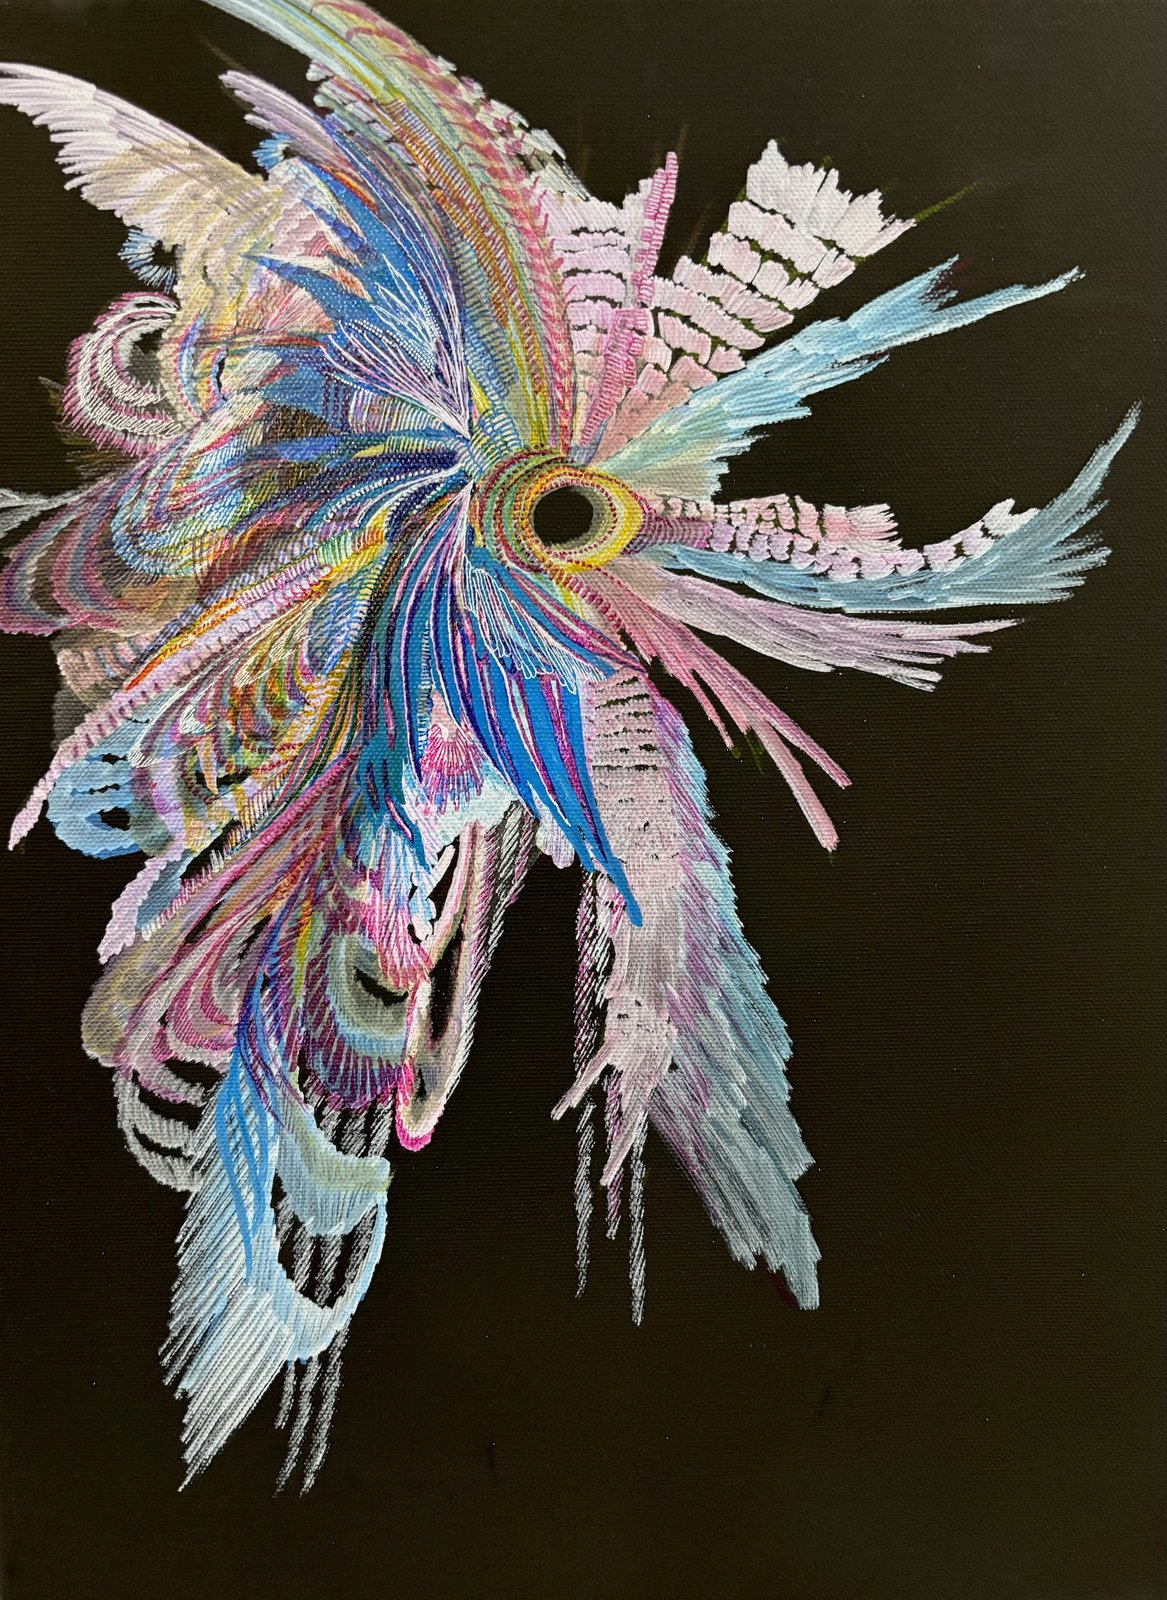
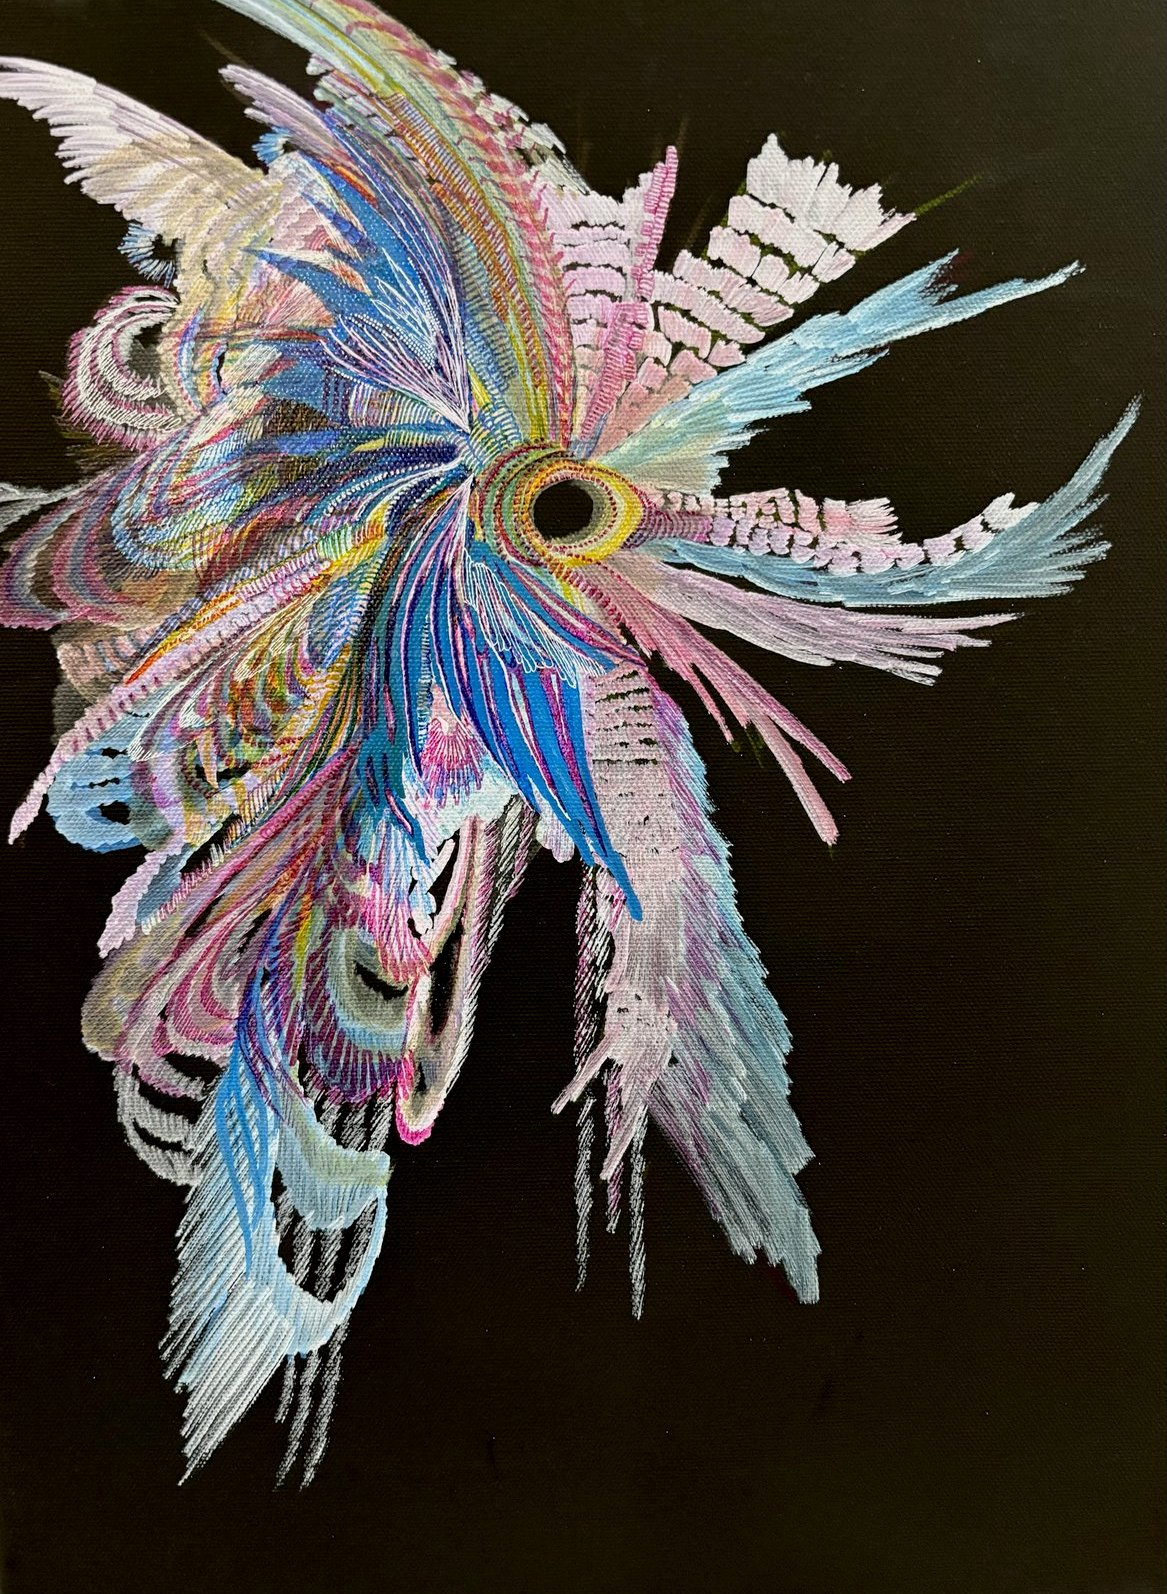
Deepen the black canvas on five 2026 photos; trim the white edge from 2026-24-1
Claude-Session: https://claude.ai/code/session_01SLgaSqkjdevHuyXdqpGcep

diff --git a/about.html b/about.html
@@ -5,7 +5,7 @@
 <meta name="viewport" content="width=device-width, initial-scale=1" />
 <title>About — Joel Pang</title>
 <meta name="description" content="Bio and artist statement for Joel Pang." />
-<link rel="stylesheet" href="style.css?v=5d3c864" />
+<link rel="stylesheet" href="style.css?v=fb7d0ab" />
 <link rel="icon" href="favicon.ico" sizes="16x16 32x32 48x48" />
 <link rel="icon" href="favicon-64.png" type="image/png" sizes="64x64" />
 <link rel="icon" href="icon-192.png" type="image/png" sizes="192x192" />
@@ -78,7 +78,7 @@
   </div>
 </footer>
 
-<script src="content.js?v=5d3c864"></script>
+<script src="content.js?v=fb7d0ab"></script>
 <script>
 (function () {
   const B = SITE.bio;
@@ -89,7 +89,7 @@
     .map((e) => `<li><strong>${e.school}</strong><span>${e.detail}</span>${e.date ? `<span class="edu-date">${e.date}</span>` : ""}</li>`).join("");
 })();
 </script>
-<script src="script.js?v=5d3c864"></script>
-<script src="pages.js?v=5d3c864"></script>
+<script src="script.js?v=fb7d0ab"></script>
+<script src="pages.js?v=fb7d0ab"></script>
 </body>
 </html>

diff --git a/accomplishments.html b/accomplishments.html
@@ -5,7 +5,7 @@
 <meta name="viewport" content="width=device-width, initial-scale=1" />
 <title>Accomplishments — Joel Pang</title>
 <meta name="description" content="Exhibitions, awards, press, and collections featuring the work of Joel Pang." />
-<link rel="stylesheet" href="style.css?v=5d3c864" />
+<link rel="stylesheet" href="style.css?v=fb7d0ab" />
 <link rel="icon" href="favicon.ico" sizes="16x16 32x32 48x48" />
 <link rel="icon" href="favicon-64.png" type="image/png" sizes="64x64" />
 <link rel="icon" href="icon-192.png" type="image/png" sizes="192x192" />
@@ -59,7 +59,7 @@
   </div>
 </footer>
 
-<script src="content.js?v=5d3c864"></script>
+<script src="content.js?v=fb7d0ab"></script>
 <script>
 (function () {
   // one ink timeline, newest year first; press and collections join it once they have real entries
@@ -84,7 +84,7 @@
     </li>`).join("");
 })();
 </script>
-<script src="script.js?v=5d3c864"></script>
-<script src="pages.js?v=5d3c864"></script>
+<script src="script.js?v=fb7d0ab"></script>
+<script src="pages.js?v=fb7d0ab"></script>
 </body>
 </html>

diff --git a/contact.html b/contact.html
@@ -5,7 +5,7 @@
 <meta name="viewport" content="width=device-width, initial-scale=1" />
 <title>Contact — Joel Pang</title>
 <meta name="description" content="Get in touch with Joel Pang about commissions, studio visits, or exhibitions." />
-<link rel="stylesheet" href="style.css?v=5d3c864" />
+<link rel="stylesheet" href="style.css?v=fb7d0ab" />
 <link rel="icon" href="favicon.ico" sizes="16x16 32x32 48x48" />
 <link rel="icon" href="favicon-64.png" type="image/png" sizes="64x64" />
 <link rel="icon" href="icon-192.png" type="image/png" sizes="192x192" />
@@ -65,7 +65,7 @@
   </div>
 </footer>
 
-<script src="content.js?v=5d3c864"></script>
+<script src="content.js?v=fb7d0ab"></script>
 <script>
 (function () {
   const emailLink = document.getElementById("email-link");
@@ -87,7 +87,7 @@
   }
 })();
 </script>
-<script src="script.js?v=5d3c864"></script>
-<script src="pages.js?v=5d3c864"></script>
+<script src="script.js?v=fb7d0ab"></script>
+<script src="pages.js?v=fb7d0ab"></script>
 </body>
 </html>

diff --git a/2019/index.html b/2019/index.html
@@ -5,7 +5,7 @@
 <meta name="viewport" content="width=device-width, initial-scale=1" />
 <title>2019 — Joel Pang</title>
 <meta name="description" content="Paintings and works on paper by Joel Pang from 2019." />
-<link rel="stylesheet" href="../style.css?v=5d3c864" />
+<link rel="stylesheet" href="../style.css?v=fb7d0ab" />
 <link rel="icon" href="../favicon.ico" sizes="16x16 32x32 48x48" />
 <link rel="icon" href="../favicon-64.png" type="image/png" sizes="64x64" />
 <link rel="icon" href="../icon-192.png" type="image/png" sizes="192x192" />
@@ -72,8 +72,8 @@
 </footer>
 
 <script>window.SITE_ROOT = "../";</script>
-<script src="../images/grid/sizes.js?v=5d3c864"></script>
-<script src="../content.js?v=5d3c864"></script>
-<script src="../script.js?v=5d3c864"></script>
+<script src="../images/grid/sizes.js?v=fb7d0ab"></script>
+<script src="../content.js?v=fb7d0ab"></script>
+<script src="../script.js?v=fb7d0ab"></script>
 </body>
 </html>

diff --git a/2020/index.html b/2020/index.html
@@ -5,7 +5,7 @@
 <meta name="viewport" content="width=device-width, initial-scale=1" />
 <title>2020 — Joel Pang</title>
 <meta name="description" content="Paintings and works on paper by Joel Pang from 2020." />
-<link rel="stylesheet" href="../style.css?v=5d3c864" />
+<link rel="stylesheet" href="../style.css?v=fb7d0ab" />
 <link rel="icon" href="../favicon.ico" sizes="16x16 32x32 48x48" />
 <link rel="icon" href="../favicon-64.png" type="image/png" sizes="64x64" />
 <link rel="icon" href="../icon-192.png" type="image/png" sizes="192x192" />
@@ -72,8 +72,8 @@
 </footer>
 
 <script>window.SITE_ROOT = "../";</script>
-<script src="../images/grid/sizes.js?v=5d3c864"></script>
-<script src="../content.js?v=5d3c864"></script>
-<script src="../script.js?v=5d3c864"></script>
+<script src="../images/grid/sizes.js?v=fb7d0ab"></script>
+<script src="../content.js?v=fb7d0ab"></script>
+<script src="../script.js?v=fb7d0ab"></script>
 </body>
 </html>

diff --git a/2021/index.html b/2021/index.html
@@ -5,7 +5,7 @@
 <meta name="viewport" content="width=device-width, initial-scale=1" />
 <title>2021 — Joel Pang</title>
 <meta name="description" content="Paintings and works on paper by Joel Pang from 2021." />
-<link rel="stylesheet" href="../style.css?v=5d3c864" />
+<link rel="stylesheet" href="../style.css?v=fb7d0ab" />
 <link rel="icon" href="../favicon.ico" sizes="16x16 32x32 48x48" />
 <link rel="icon" href="../favicon-64.png" type="image/png" sizes="64x64" />
 <link rel="icon" href="../icon-192.png" type="image/png" sizes="192x192" />
@@ -72,8 +72,8 @@
 </footer>
 
 <script>window.SITE_ROOT = "../";</script>
-<script src="../images/grid/sizes.js?v=5d3c864"></script>
-<script src="../content.js?v=5d3c864"></script>
-<script src="../script.js?v=5d3c864"></script>
+<script src="../images/grid/sizes.js?v=fb7d0ab"></script>
+<script src="../content.js?v=fb7d0ab"></script>
+<script src="../script.js?v=fb7d0ab"></script>
 </body>
 </html>

diff --git a/2022/index.html b/2022/index.html
@@ -5,7 +5,7 @@
 <meta name="viewport" content="width=device-width, initial-scale=1" />
 <title>2022 — Joel Pang</title>
 <meta name="description" content="Paintings and works on paper by Joel Pang from 2022." />
-<link rel="stylesheet" href="../style.css?v=5d3c864" />
+<link rel="stylesheet" href="../style.css?v=fb7d0ab" />
 <link rel="icon" href="../favicon.ico" sizes="16x16 32x32 48x48" />
 <link rel="icon" href="../favicon-64.png" type="image/png" sizes="64x64" />
 <link rel="icon" href="../icon-192.png" type="image/png" sizes="192x192" />
@@ -72,8 +72,8 @@
 </footer>
 
 <script>window.SITE_ROOT = "../";</script>
-<script src="../images/grid/sizes.js?v=5d3c864"></script>
-<script src="../content.js?v=5d3c864"></script>
-<script src="../script.js?v=5d3c864"></script>
+<script src="../images/grid/sizes.js?v=fb7d0ab"></script>
+<script src="../content.js?v=fb7d0ab"></script>
+<script src="../script.js?v=fb7d0ab"></script>
 </body>
 </html>

diff --git a/2024/index.html b/2024/index.html
@@ -5,7 +5,7 @@
 <meta name="viewport" content="width=device-width, initial-scale=1" />
 <title>2024 — Joel Pang</title>
 <meta name="description" content="Paintings and works on paper by Joel Pang from 2024." />
-<link rel="stylesheet" href="../style.css?v=5d3c864" />
+<link rel="stylesheet" href="../style.css?v=fb7d0ab" />
 <link rel="icon" href="../favicon.ico" sizes="16x16 32x32 48x48" />
 <link rel="icon" href="../favicon-64.png" type="image/png" sizes="64x64" />
 <link rel="icon" href="../icon-192.png" type="image/png" sizes="192x192" />
@@ -72,8 +72,8 @@
 </footer>
 
 <script>window.SITE_ROOT = "../";</script>
-<script src="../images/grid/sizes.js?v=5d3c864"></script>
-<script src="../content.js?v=5d3c864"></script>
-<script src="../script.js?v=5d3c864"></script>
+<script src="../images/grid/sizes.js?v=fb7d0ab"></script>
+<script src="../content.js?v=fb7d0ab"></script>
+<script src="../script.js?v=fb7d0ab"></script>
 </body>
 </html>

diff --git a/2025/index.html b/2025/index.html
@@ -5,7 +5,7 @@
 <meta name="viewport" content="width=device-width, initial-scale=1" />
 <title>2025 — Joel Pang</title>
 <meta name="description" content="Paintings and works on paper by Joel Pang from 2025." />
-<link rel="stylesheet" href="../style.css?v=5d3c864" />
+<link rel="stylesheet" href="../style.css?v=fb7d0ab" />
 <link rel="icon" href="../favicon.ico" sizes="16x16 32x32 48x48" />
 <link rel="icon" href="../favicon-64.png" type="image/png" sizes="64x64" />
 <link rel="icon" href="../icon-192.png" type="image/png" sizes="192x192" />
@@ -72,8 +72,8 @@
 </footer>
 
 <script>window.SITE_ROOT = "../";</script>
-<script src="../images/grid/sizes.js?v=5d3c864"></script>
-<script src="../content.js?v=5d3c864"></script>
-<script src="../script.js?v=5d3c864"></script>
+<script src="../images/grid/sizes.js?v=fb7d0ab"></script>
+<script src="../content.js?v=fb7d0ab"></script>
+<script src="../script.js?v=fb7d0ab"></script>
 </body>
 </html>

diff --git a/2026/index.html b/2026/index.html
@@ -5,7 +5,7 @@
 <meta name="viewport" content="width=device-width, initial-scale=1" />
 <title>2026 — Joel Pang</title>
 <meta name="description" content="Paintings and works on paper by Joel Pang from 2026." />
-<link rel="stylesheet" href="../style.css?v=5d3c864" />
+<link rel="stylesheet" href="../style.css?v=fb7d0ab" />
 <link rel="icon" href="../favicon.ico" sizes="16x16 32x32 48x48" />
 <link rel="icon" href="../favicon-64.png" type="image/png" sizes="64x64" />
 <link rel="icon" href="../icon-192.png" type="image/png" sizes="192x192" />
@@ -72,8 +72,8 @@
 </footer>
 
 <script>window.SITE_ROOT = "../";</script>
-<script src="../images/grid/sizes.js?v=5d3c864"></script>
-<script src="../content.js?v=5d3c864"></script>
-<script src="../script.js?v=5d3c864"></script>
+<script src="../images/grid/sizes.js?v=fb7d0ab"></script>
+<script src="../content.js?v=fb7d0ab"></script>
+<script src="../script.js?v=fb7d0ab"></script>
 </body>
 </html>

diff --git a/index.html b/index.html
@@ -5,7 +5,7 @@
 <meta name="viewport" content="width=device-width, initial-scale=1" />
 <title>Joel Pang</title>
 <meta name="description" content="Joel Pang — oil and ink on canvas, wood, and paper, 2019 to today. Portfolio by year, bio, and exhibitions." />
-<link rel="stylesheet" href="style.css?v=5d3c864" />
+<link rel="stylesheet" href="style.css?v=fb7d0ab" />
 <link rel="icon" href="favicon.ico" sizes="16x16 32x32 48x48" />
 <link rel="icon" href="favicon-64.png" type="image/png" sizes="64x64" />
 <link rel="icon" href="icon-192.png" type="image/png" sizes="192x192" />
@@ -64,8 +64,8 @@
   </div>
 </footer>
 
-<script src="content.js?v=5d3c864"></script>
-<script src="script.js?v=5d3c864"></script>
-<script src="hero.js?v=5d3c864"></script>
+<script src="content.js?v=fb7d0ab"></script>
+<script src="script.js?v=fb7d0ab"></script>
+<script src="hero.js?v=fb7d0ab"></script>
 </body>
 </html>

diff --git a/404.html b/404.html
@@ -6,7 +6,7 @@
 <title>Page not found — Joel Pang</title>
 <meta name="robots" content="noindex" />
 <!-- served for any missing address, at any depth, so every link here starts from the site root -->
-<link rel="stylesheet" href="/style.css?v=5d3c864" />
+<link rel="stylesheet" href="/style.css?v=fb7d0ab" />
 <link rel="icon" href="/favicon.ico" sizes="16x16 32x32 48x48" />
 <link rel="icon" href="/favicon-64.png" type="image/png" sizes="64x64" />
 <link rel="apple-touch-icon" href="/apple-touch-icon.png" />
@@ -56,7 +56,7 @@
 </footer>
 
 <script>window.SITE_ROOT = "/";</script>
-<script src="/content.js?v=5d3c864"></script>
-<script src="/script.js?v=5d3c864"></script>
+<script src="/content.js?v=fb7d0ab"></script>
+<script src="/script.js?v=fb7d0ab"></script>
 </body>
 </html>
